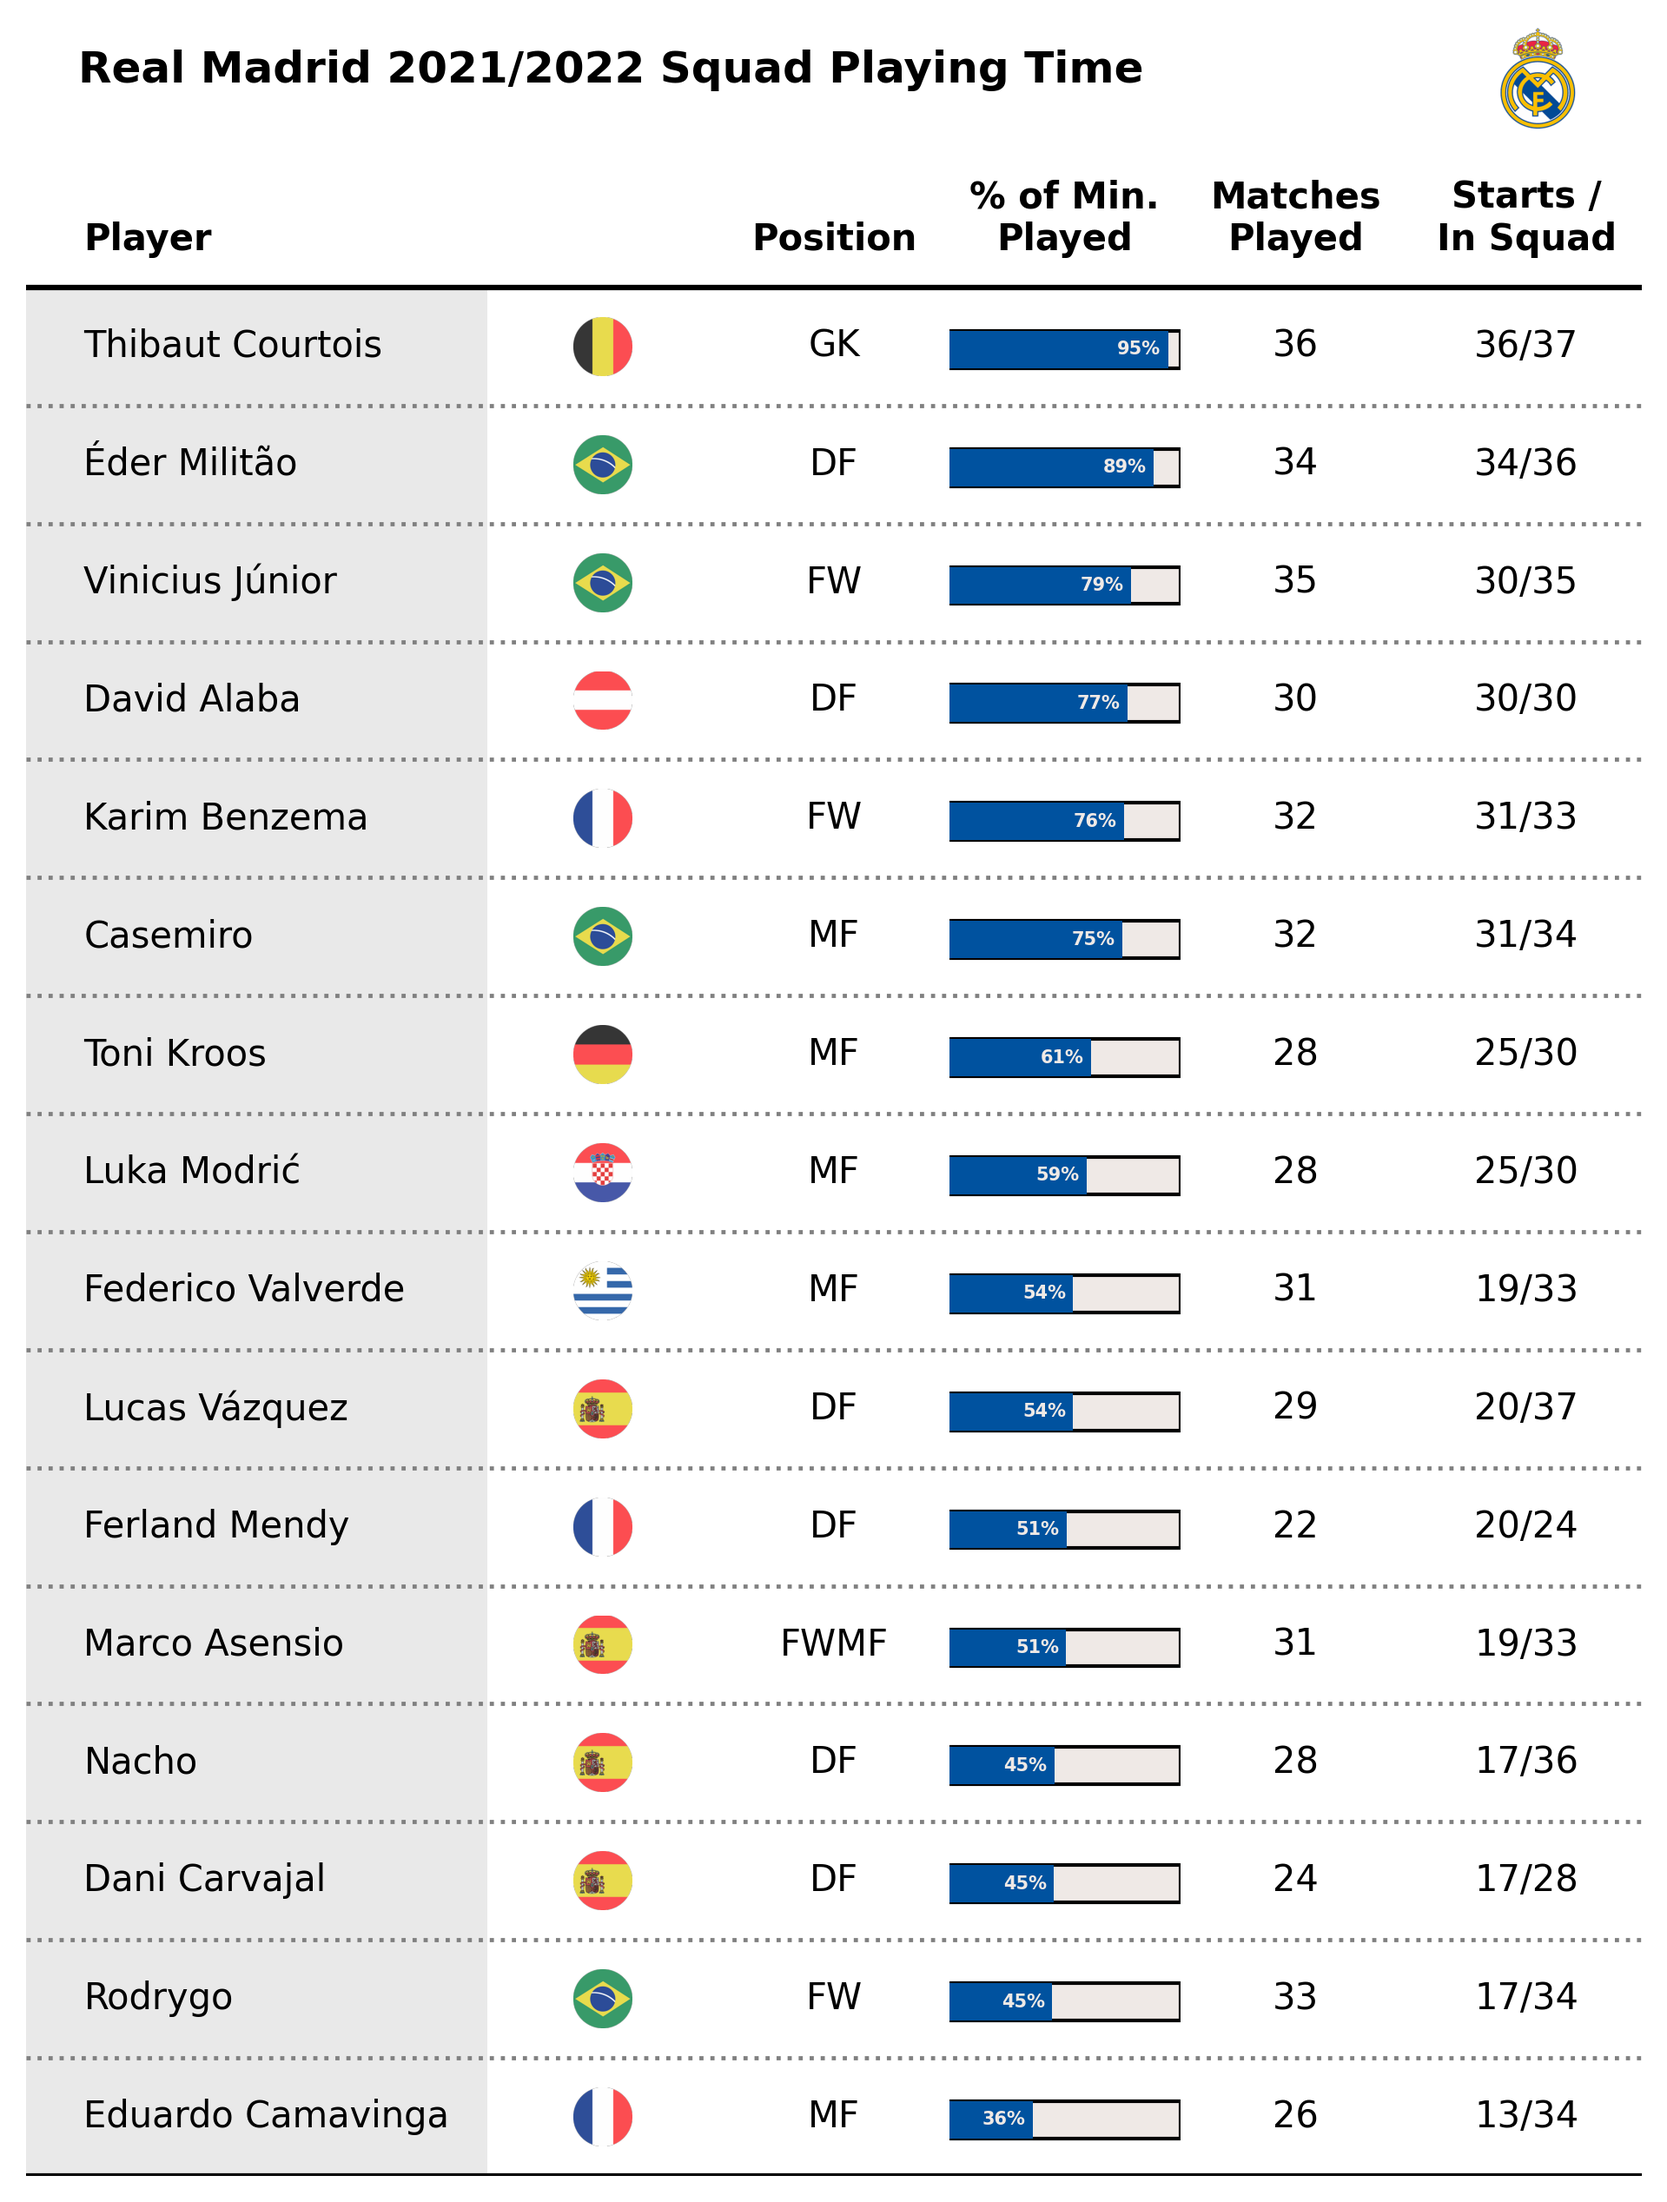
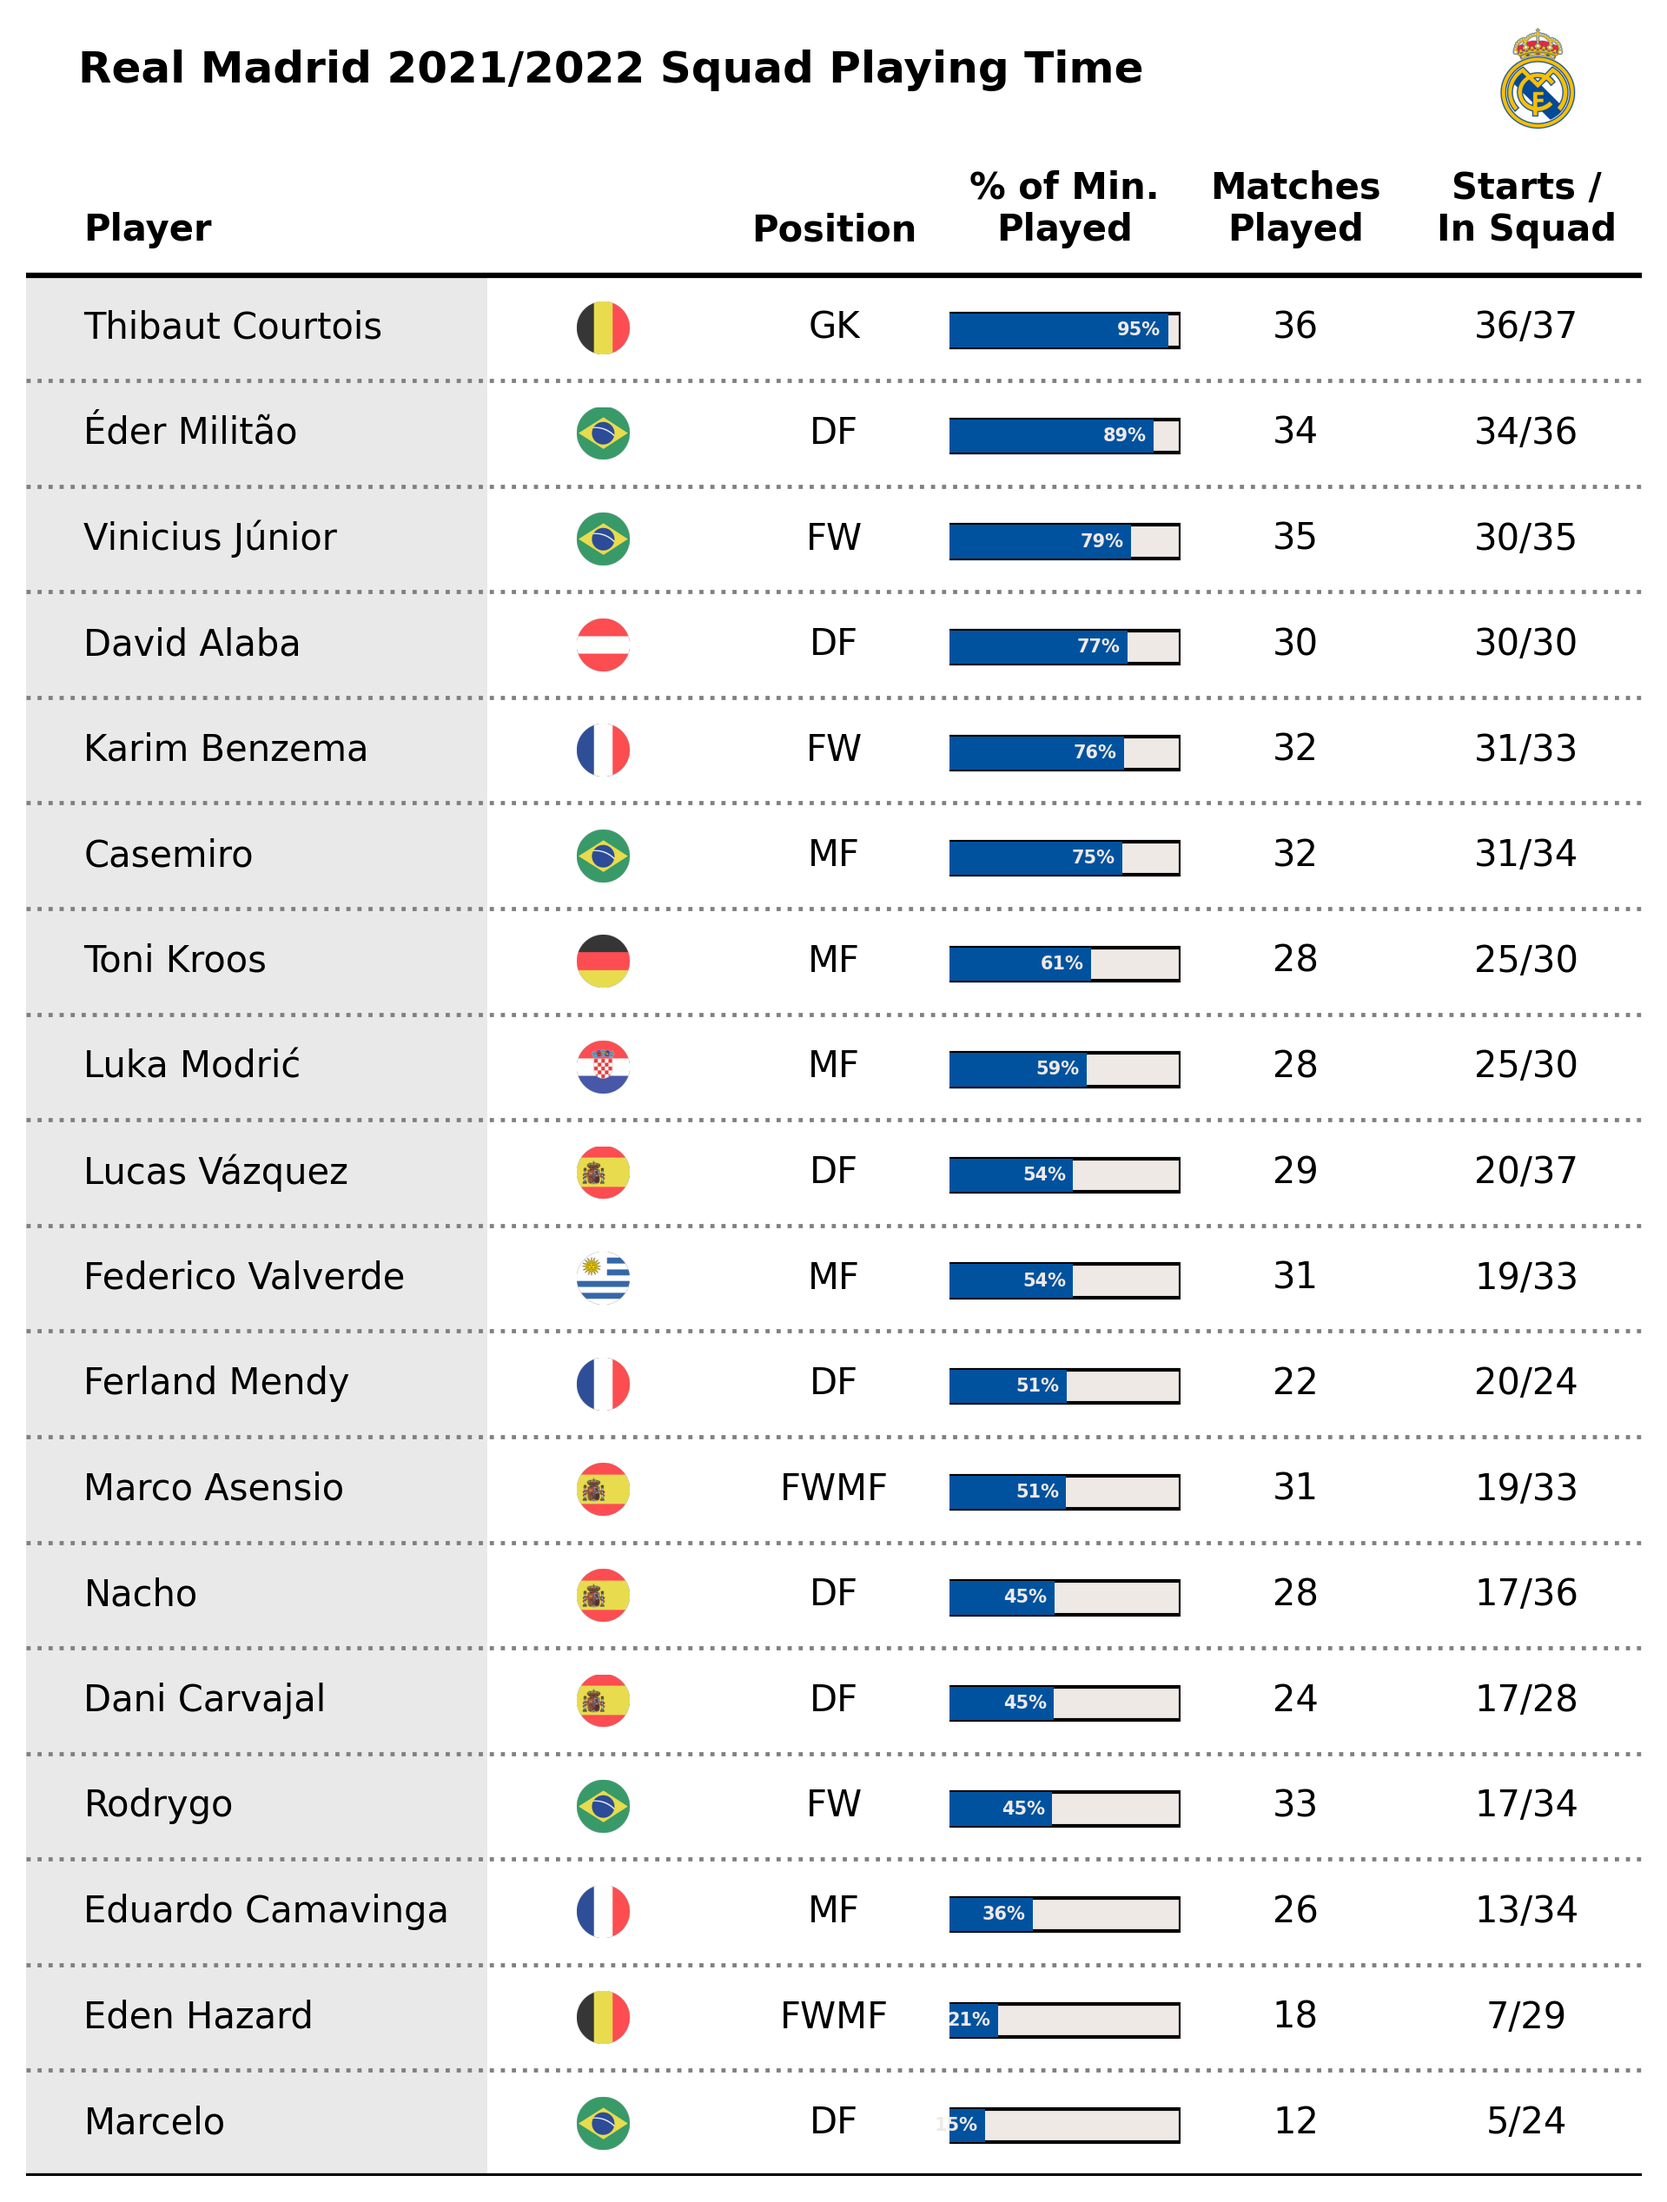
Removed redunndant code

diff --git a/main.py b/main.py
@@ -44,230 +44,14 @@ def minutes_battery(minutes, ax):
     return ax
 
 df = pd.read_csv('real_madrid_playing_time.csv', header=[1])
-# print(tabulate(df.head(), tablefmt='pipe', headers='keys'))
-df.head()
 
-df_example_1 = df[df['Min'] >= 1000].reset_index(drop=True)
-df_example_1 = df_example_1[['Player', 'Pos', 'MP', 'Starts', 'Subs', 'unSub']]
-print(tabulate(df_example_1.head(), tablefmt='pipe', headers='keys'))
-
-df_example_1['InSquad'] = df_example_1['MP'] + df_example_1['unSub']
-df_example_1 = df_example_1.sort_values(by='Starts').reset_index(drop=True)
-df_example_1 = df_example_1[~df_example_1['Pos'].isna()]
-df_example_1.head()
-
-fig = plt.figure(figsize=(7,10), dpi=300)
-ax = plt.subplot()
-
-ncols = 5
-nrows = df_example_1.shape[0]
-
-ax.set_xlim(0, ncols + 1)
-ax.set_ylim(0, nrows)
-
-positions = [0.25, 2.5, 3.5, 4.5, 5.5]
-columns = ['Player', 'Pos', 'MP', 'Starts', 'InSquad']
-
-# Add table's main text
-for i in range(nrows):
-    for j, column in enumerate(columns):
-        if j == 0:
-            ha = 'left'
-        else:
-            ha = 'center'
-        ax.annotate(
-            xy=(positions[j], i),
-            text=df_example_1[column].iloc[i],
-            ha=ha,
-            va='center'
-        )
-
-# Add column names
-column_names = ['Player', 'Position', 'Matches\nPlayed', 'Starts', 'In Squad']
-for index, c in enumerate(column_names):
-        if index == 0:
-            ha = 'left'
-        else:
-            ha = 'center'
-        ax.annotate(
-            xy=(positions[index], nrows),
-            text=column_names[index],
-            ha=ha,
-            va='bottom',
-            weight='bold'
-        )
-
-ax.set_axis_off()
-plt.savefig(
-    'figures/first_useful_table.png',
-    dpi=300,
-    transparent=True,
-    bbox_inches='tight'
-)
-
-df_example_2 = df[df['Min'] >= 1000].reset_index(drop=True)
-df_example_2 = df_example_2[['Player', 'Pos', 'Min', 'MP', 'Starts', 'Subs', 'unSub']]
-print(tabulate(df_example_2.head(), tablefmt='pipe', headers='keys'))
-
-df_example_2['InSquad'] = df_example_2['MP'] + df_example_2['unSub']
-df_example_2 = df_example_2.sort_values(by='Min').reset_index(drop=True)
-df_example_2 = df_example_2[~df_example_2['Pos'].isna()]
-
-
-df_example_2['Starts_InSquad'] = [f'{x}/{y}' for x,y in zip(df_example_2['Starts'], df_example_2['InSquad'])]
-df_example_2.head()
-
-fig = plt.figure(figsize=(7,10), dpi=300)
-ax = plt.subplot()
-
-ncols = 5
-nrows = df_example_2.shape[0]
-
-ax.set_xlim(0, ncols + 1)
-ax.set_ylim(0, nrows + 1)
-
-positions = [0.25, 2.5, 3.5, 4.5, 5.5]
-columns = ['Player', 'Pos', 'Min', 'MP', 'Starts_InSquad']
-
-# Add table's main text
-for i in range(nrows):
-    for j, column in enumerate(columns):
-        if j == 0:
-            ha = 'left'
-        else:
-            ha = 'center'
-        if column == 'Min':
-            text_label = f'{df_example_2[column].iloc[i]:,.0f}'
-            weight = 'bold'
-        else:
-            text_label = f'{df_example_2[column].iloc[i]}'
-            weight = 'normal'
-        ax.annotate(
-            xy=(positions[j], i + .5),
-            text=text_label,
-            ha=ha,
-            va='center',
-            weight=weight
-        )
-
-# Add column names
-column_names = ['Player', 'Position', 'Minutes', 'Matches\nPlayed', 'Starts /\nIn Squad']
-for index, c in enumerate(column_names):
-        if index == 0:
-            ha = 'left'
-        else:
-            ha = 'center'
-        ax.annotate(
-            xy=(positions[index], nrows + .25),
-            text=column_names[index],
-            ha=ha,
-            va='bottom',
-            weight='bold'
-        )
-
-# Add dividing lines
-ax.plot([ax.get_xlim()[0], ax.get_xlim()[1]], [nrows, nrows], lw=1.5, color='black', marker='', zorder=4)
-ax.plot([ax.get_xlim()[0], ax.get_xlim()[1]], [0, 0], lw=1.5, color='black', marker='', zorder=4)
-for x in range(1, nrows):
-    ax.plot([ax.get_xlim()[0], ax.get_xlim()[1]], [x, x], lw=1.15, color='gray', ls=':', zorder=3 , marker='')
-
-ax.set_axis_off()
-plt.savefig(
-    'figures/pretty_example.png',
-    dpi=300,
-    transparent=True,
-    bbox_inches='tight'
-)
-
-df_final = df[df['Min'] >= 1000].reset_index(drop=True)
+df_final = df[df['Min'] >= 400].reset_index(drop=True)
 df_final = df_final[['Player', 'Nation', 'Pos', 'Min', 'MP', 'Starts', 'Subs', 'unSub']]
 df_final['InSquad'] = df_final['MP'] + df_final['unSub']
 df_final = df_final.sort_values(by='Min').reset_index(drop=True)
 df_final = df_final[~df_final['Pos'].isna()]
 df_final['Nation'] = [x.split(' ')[1].lower() for x in df_final['Nation']]
 df_final['Starts_InSquad'] = [f'{x}/{y}' for x,y in zip(df_final['Starts'], df_final['InSquad'])]
-print(tabulate(df_final.head(), tablefmt='pipe', headers='keys'))
-
-fig = plt.figure(figsize=(8,10), dpi=300)
-ax = plt.subplot()
-
-ncols = 6
-nrows = df_final.shape[0]
-
-ax.set_xlim(0, ncols + 1)
-ax.set_ylim(0, nrows + 1)
-
-positions = [0.25, 3.5, 4.5, 5.5, 6.5]
-columns = ['Player', 'Pos', 'Min', 'MP', 'Starts_InSquad']
-
-# -- Add table's main text
-for i in range(nrows):
-    for j, column in enumerate(columns):
-        if j == 0:
-            ha = 'left'
-        else:
-            ha = 'center'
-        if column == 'Min':
-            text_label = f'{df_final[column].iloc[i]:,.0f}'
-            weight = 'bold'
-        else:
-            text_label = f'{df_final[column].iloc[i]}'
-            weight = 'normal'
-        ax.annotate(
-            xy=(positions[j], i + .5),
-            text=text_label,
-            ha=ha,
-            va='center',
-            weight=weight
-        )
-
-# -- Transformation functions
-
-# -- Transformation functions
-DC_to_FC = ax.transData.transform
-FC_to_NFC = fig.transFigure.inverted().transform
-# -- Take data coordinates and transform them to normalized figure coordinates
-DC_to_NFC = lambda x: FC_to_NFC(DC_to_FC(x))
-# -- Add nation axes
-ax_point_1 = DC_to_NFC([2.25, 0.25])
-ax_point_2 = DC_to_NFC([2.75, 0.75])
-ax_width = abs(ax_point_1[0] - ax_point_2[0])
-ax_height = abs(ax_point_1[1] - ax_point_2[1])
-for x in range(0, nrows):
-    ax_coords = DC_to_NFC([2.25, x + .25])
-    flag_ax = fig.add_axes(
-        [ax_coords[0], ax_coords[1], ax_width, ax_height]
-    )
-    ax_logo(df_final['Nation'].iloc[x], flag_ax)
-
-# -- Add column names
-column_names = ['Player', 'Position', 'Minutes', 'Matches\nPlayed', 'Starts /\nIn Squad']
-for index, c in enumerate(column_names):
-        if index == 0:
-            ha = 'left'
-        else:
-            ha = 'center'
-        ax.annotate(
-            xy=(positions[index], nrows + .25),
-            text=column_names[index],
-            ha=ha,
-            va='bottom',
-            weight='bold'
-        )
-
-# Add dividing lines
-ax.plot([ax.get_xlim()[0], ax.get_xlim()[1]], [nrows, nrows], lw=1.5, color='black', marker='', zorder=4)
-ax.plot([ax.get_xlim()[0], ax.get_xlim()[1]], [0, 0], lw=1.5, color='black', marker='', zorder=4)
-for x in range(1, nrows):
-    ax.plot([ax.get_xlim()[0], ax.get_xlim()[1]], [x, x], lw=1.15, color='gray', ls=':', zorder=3 , marker='')
-
-ax.set_axis_off()
-plt.savefig(
-    'figures/flag_example.png',
-    dpi=300,
-    transparent=True,
-    bbox_inches='tight'
-)
 
 fig = plt.figure(figsize=(8,10), dpi=300, facecolor='#EFE9E6')
 ax = plt.subplot()
@@ -281,7 +65,6 @@ ax.set_ylim(0, nrows + 1)
 positions = [0.25, 3.5, 4.5, 5.5, 6.5]
 columns = ['Player', 'Pos', 'Min', 'MP', 'Starts_InSquad']
 
-# -- Add table's main text
 for i in range(nrows):
     for j, column in enumerate(columns):
         if j == 0:
@@ -301,16 +84,16 @@ for i in range(nrows):
             weight=weight
         )
 
-# -- Transformation functions
 DC_to_FC = ax.transData.transform
 FC_to_NFC = fig.transFigure.inverted().transform
-# -- Take data coordinates and transform them to normalized figure coordinates
+
 DC_to_NFC = lambda x: FC_to_NFC(DC_to_FC(x))
-# -- Add nation axes
+
 ax_point_1 = DC_to_NFC([2.25, 0.25])
 ax_point_2 = DC_to_NFC([2.75, 0.75])
 ax_width = abs(ax_point_1[0] - ax_point_2[0])
 ax_height = abs(ax_point_1[1] - ax_point_2[1])
+
 for x in range(0, nrows):
     ax_coords = DC_to_NFC([2.25, x + .25])
     flag_ax = fig.add_axes(
@@ -329,7 +112,6 @@ for x in range(0, nrows):
     )
     minutes_battery(df_final['Min'].iloc[x], bar_ax)
 
-# -- Add column names
 column_names = ['Player', 'Position', '% of Min.\nPlayed', 'Matches\nPlayed', 'Starts /\nIn Squad']
 for index, c in enumerate(column_names):
         if index == 0:
@@ -344,7 +126,6 @@ for index, c in enumerate(column_names):
             weight='bold'
         )
 
-# Add dividing lines
 ax.plot([ax.get_xlim()[0], ax.get_xlim()[1]], [nrows, nrows], lw=1.5, color='black', marker='', zorder=4)
 ax.plot([ax.get_xlim()[0], ax.get_xlim()[1]], [0, 0], lw=1.5, color='black', marker='', zorder=4)
 for x in range(1, nrows):
@@ -359,9 +140,7 @@ ax.fill_between(
     ec='None'
 )
 
-
 ax.set_axis_off()
-# -- Final details
 logo_ax = fig.add_axes(
     [0.825, 0.89, .05, .05]
 )
